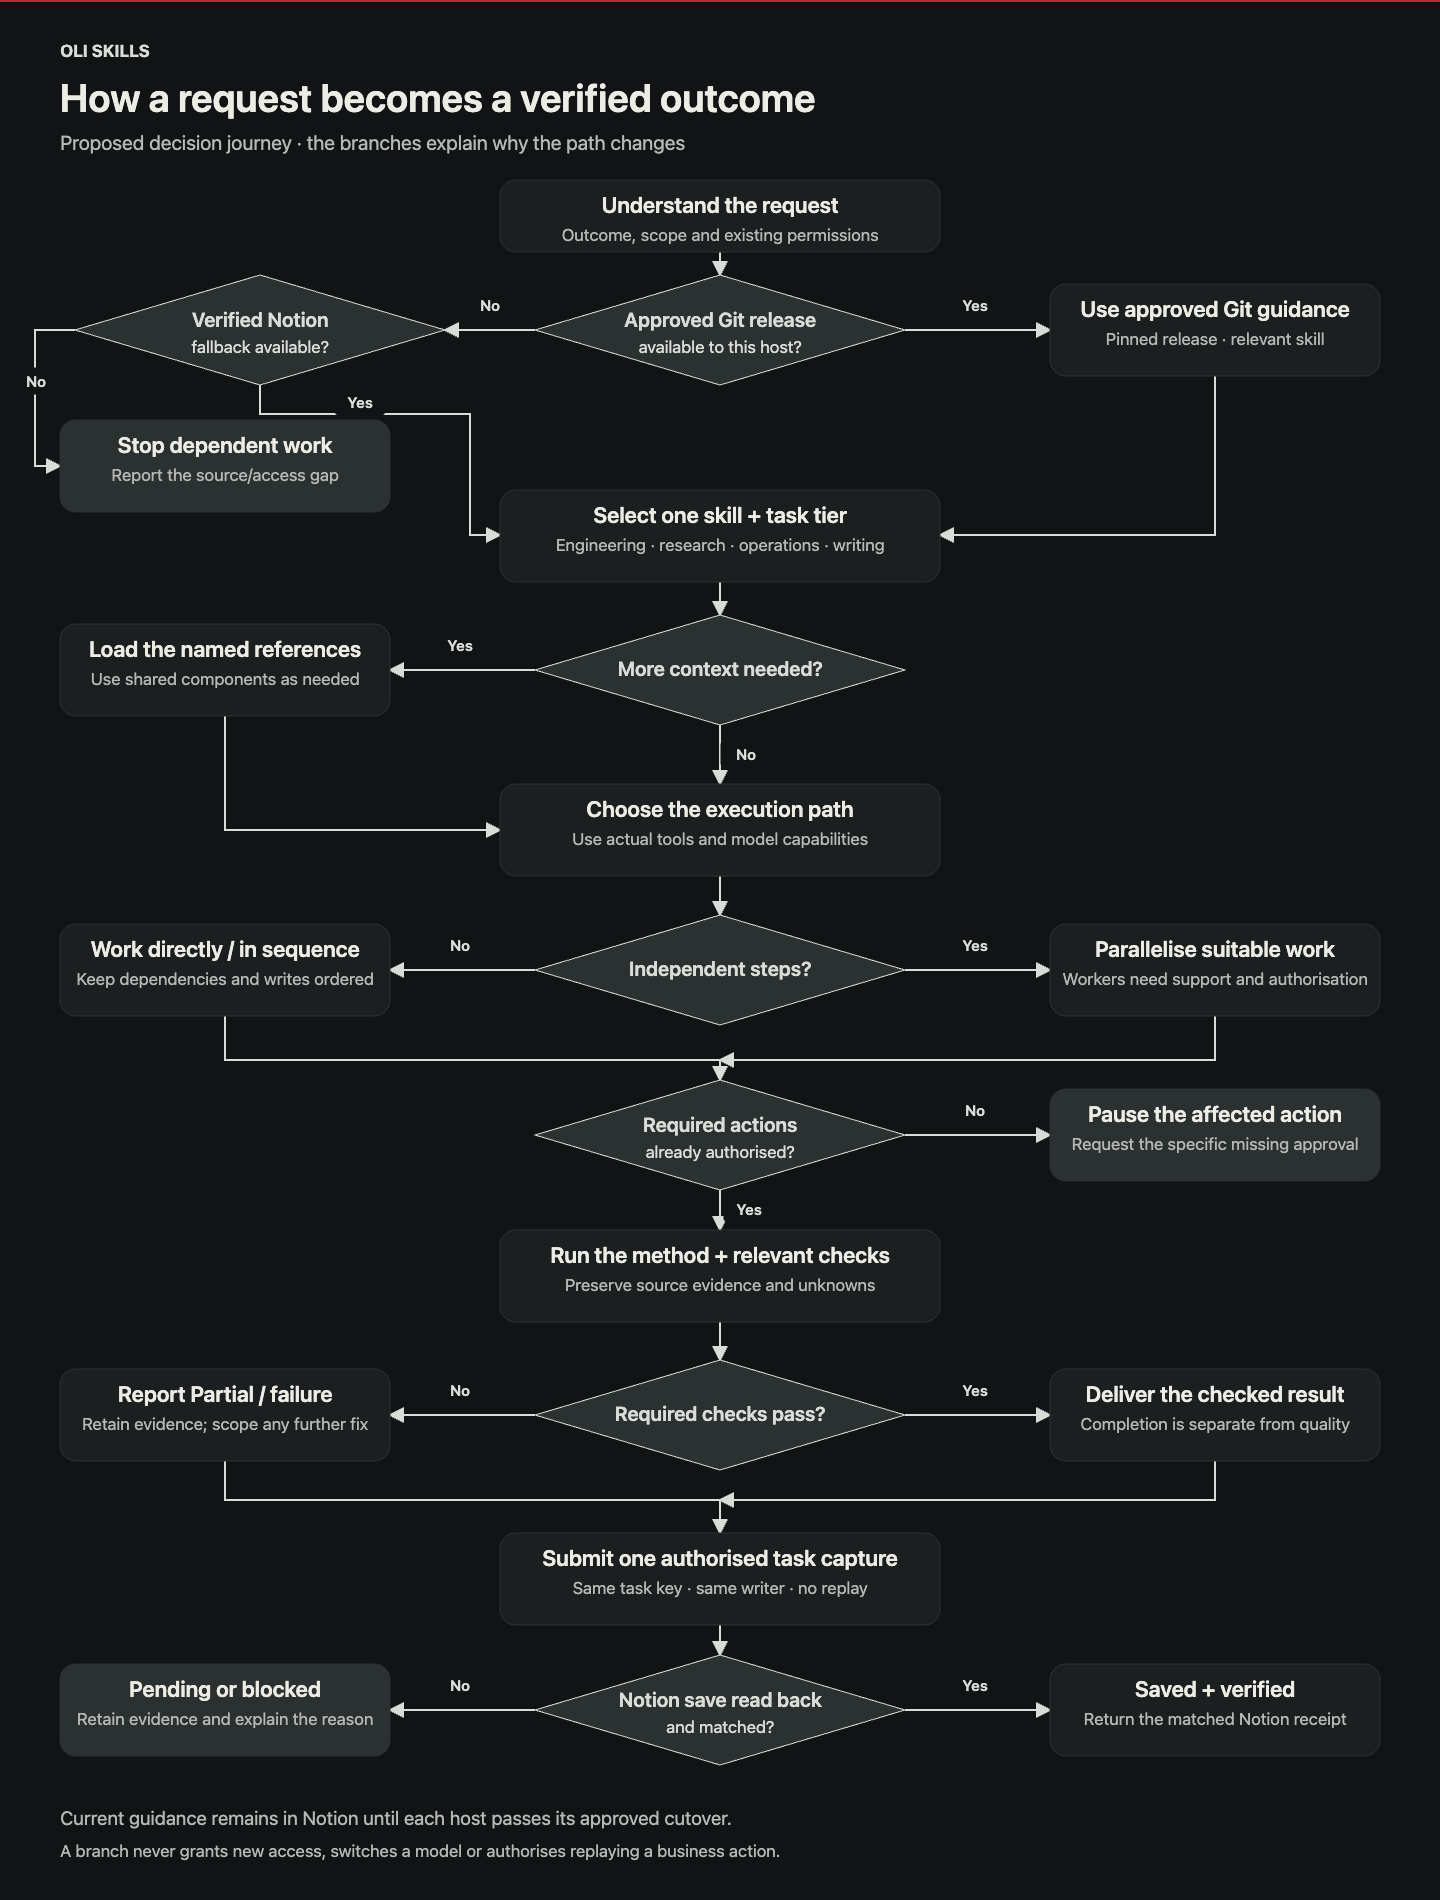
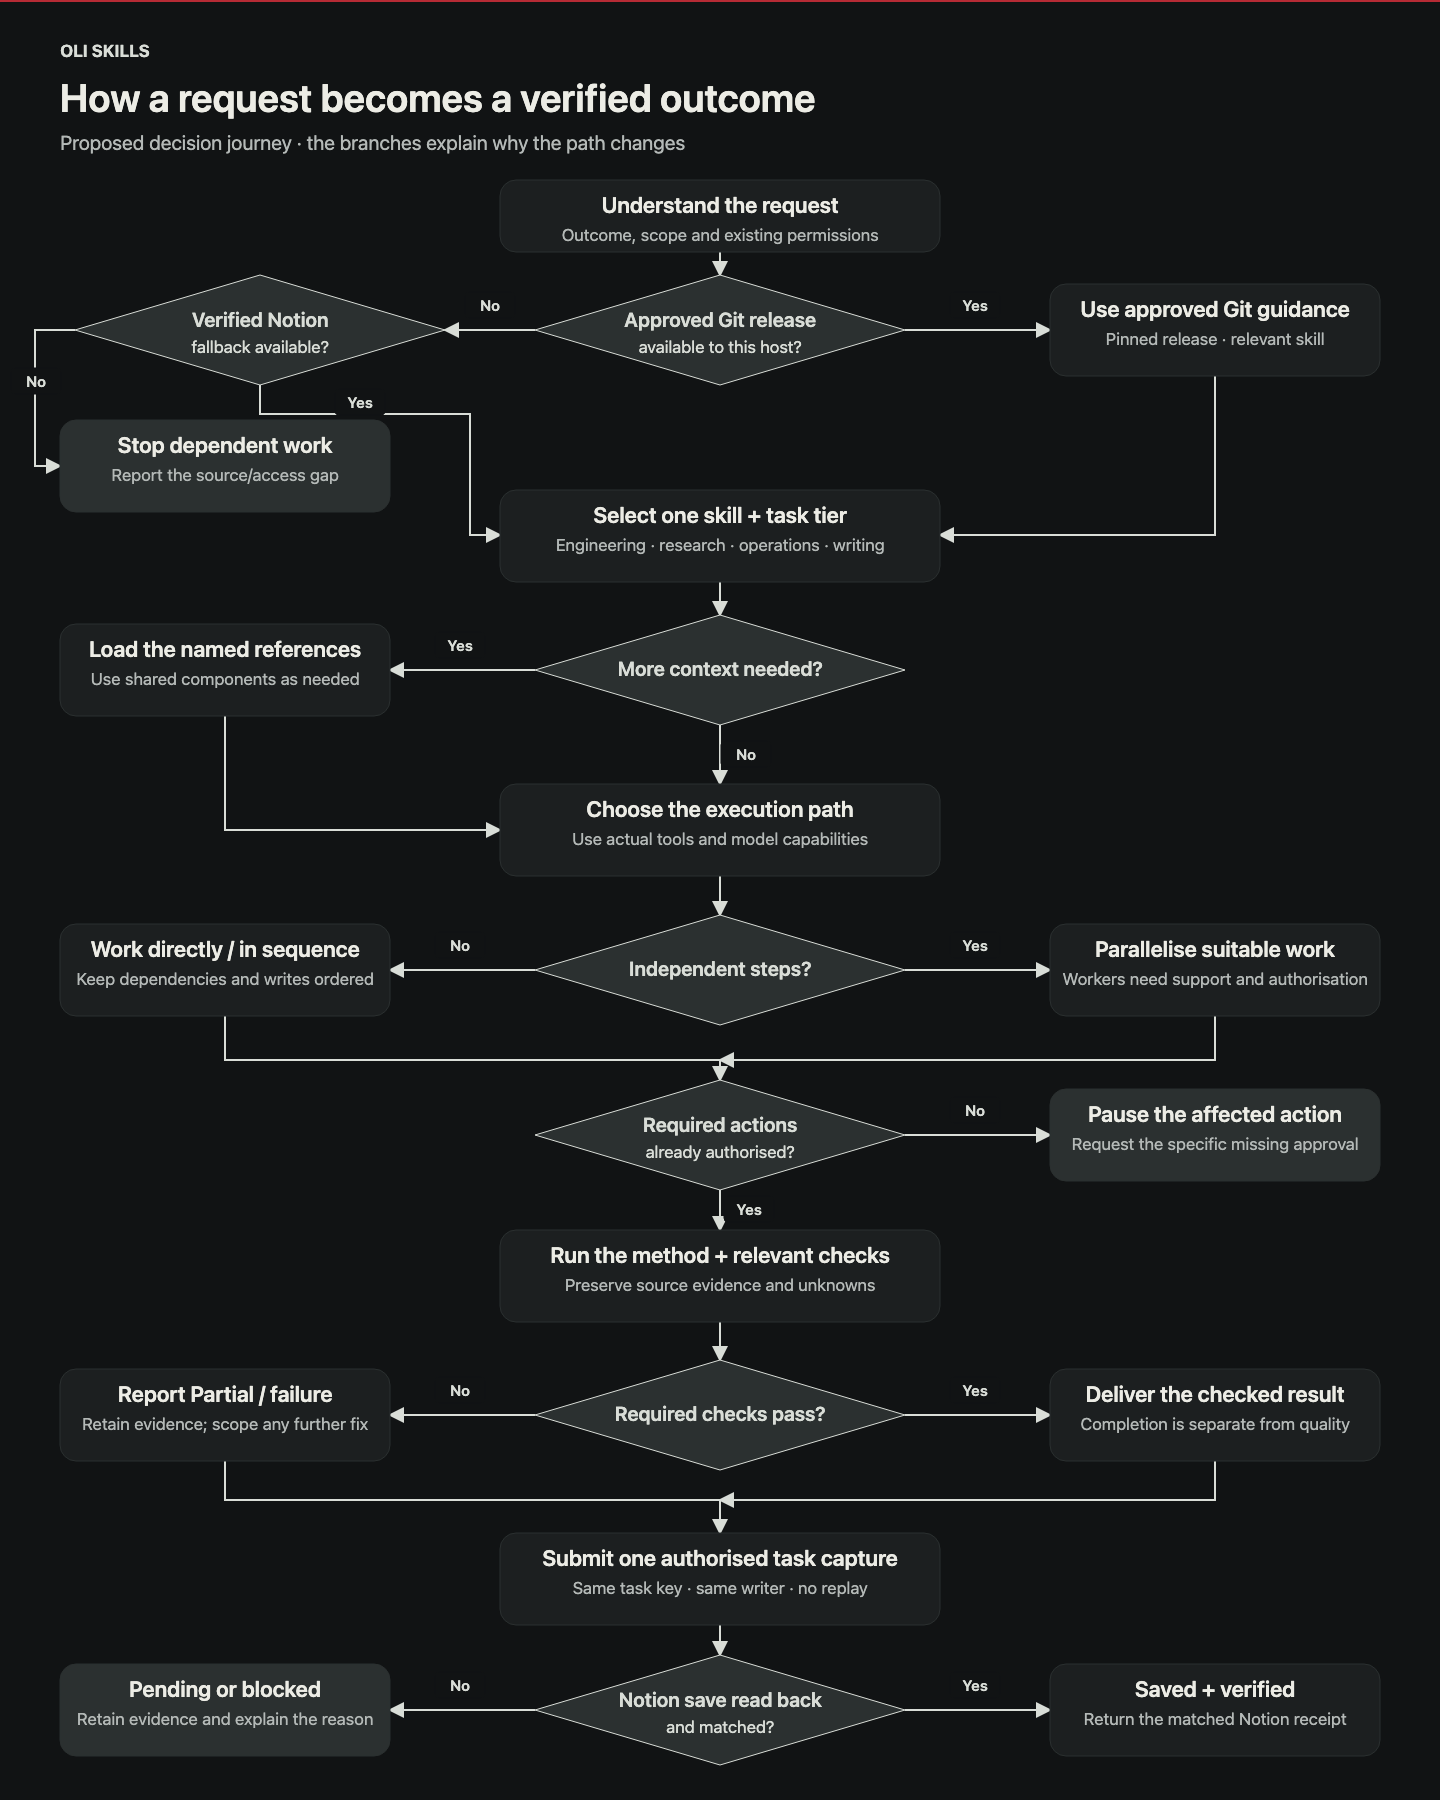
Remove operational footer from profile diagram [skip ci]

diff --git a/README.md b/README.md
@@ -14,7 +14,7 @@ The entry point to my wider AI engineering work. Applications, workflow examples
 
 ### Oli Skills
 
-![Oli Skills decision journey: branching choices for guidance, context, execution, permissions and verified capture](assets/oli-skills-decision-journey.png)
+![Oli Skills decision journey: branching choices for guidance, context, execution, permissions and verified capture](assets/oli-skills-decision-journey.png?v=2)
 
 A reusable agent-skills architecture currently in development. Small, focused instructions share common components for engineering, research, reporting and repository maintenance, with versioned guidance and staged rollout.
 
